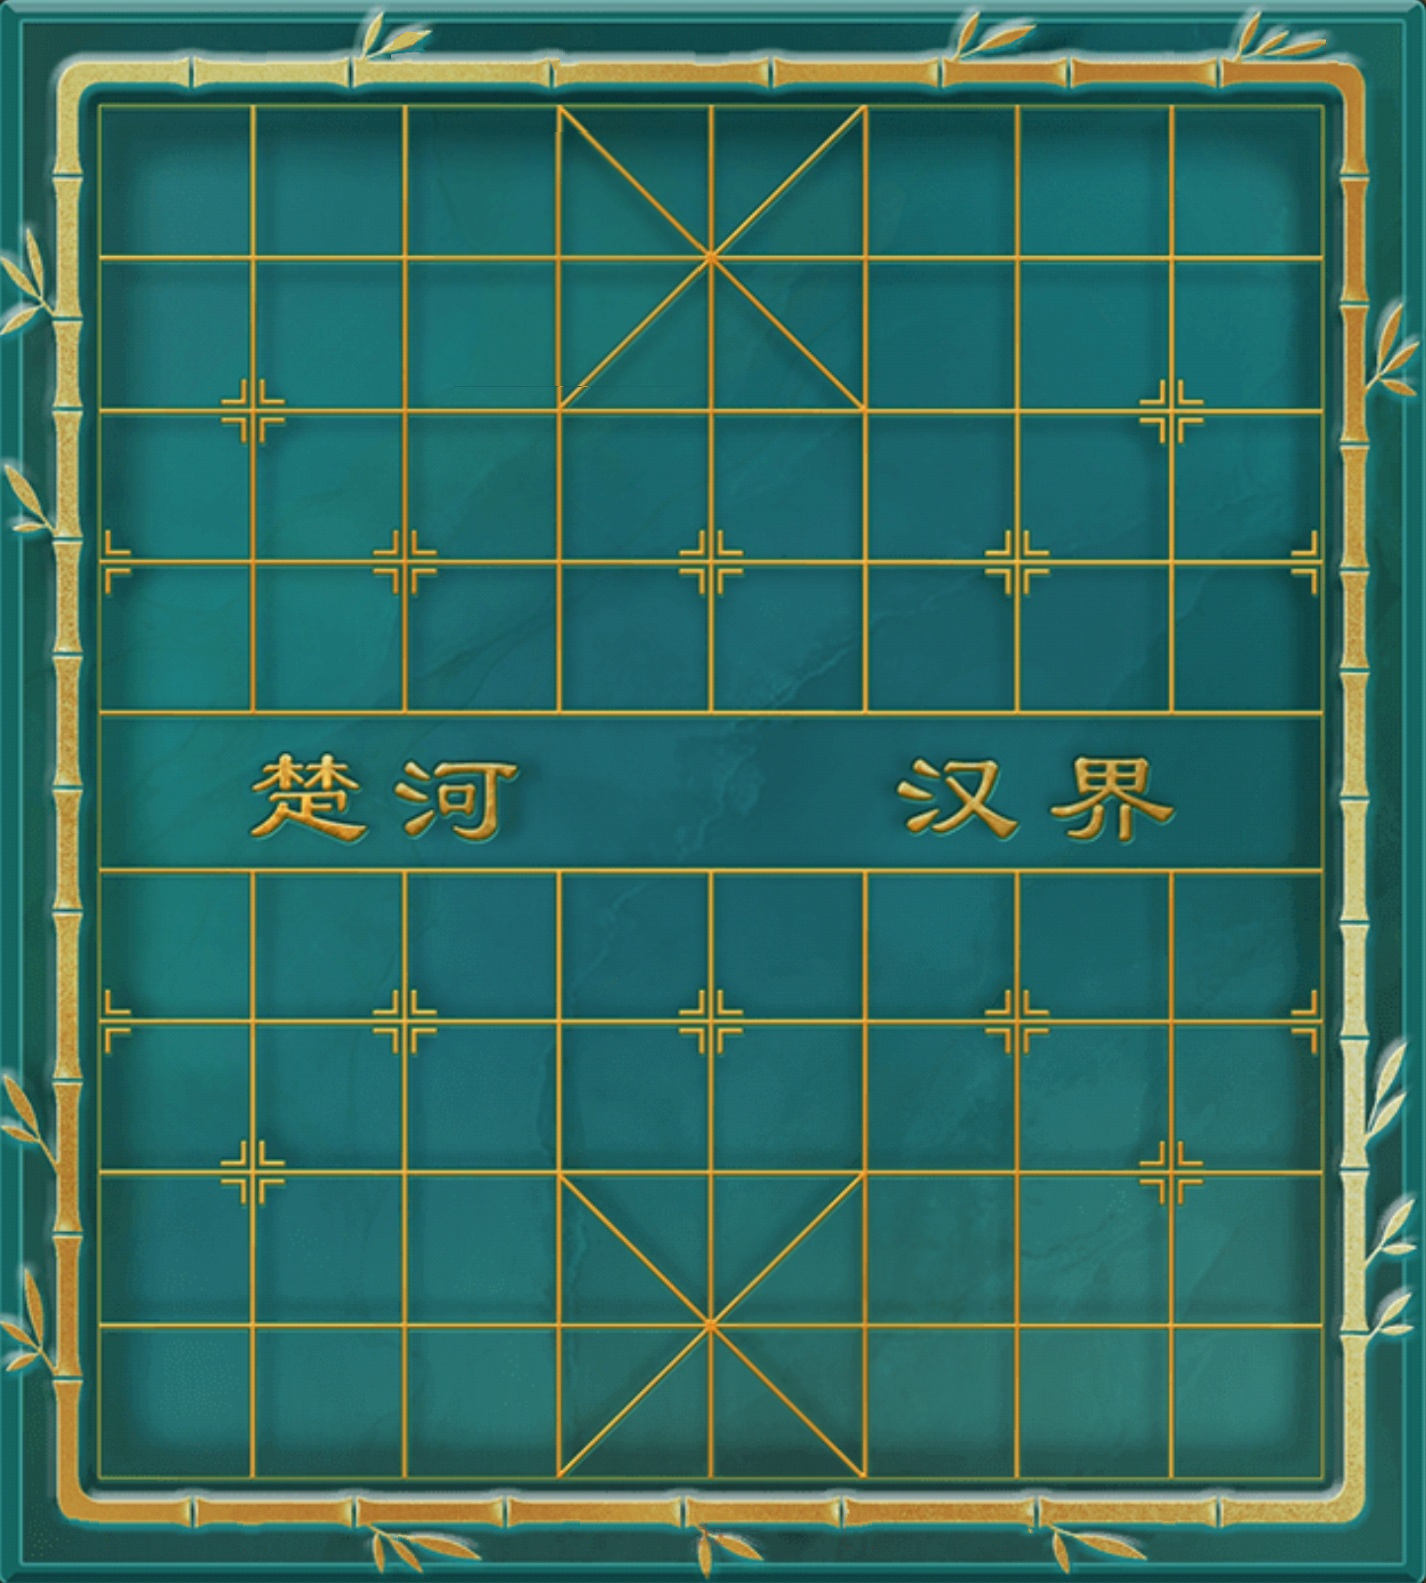
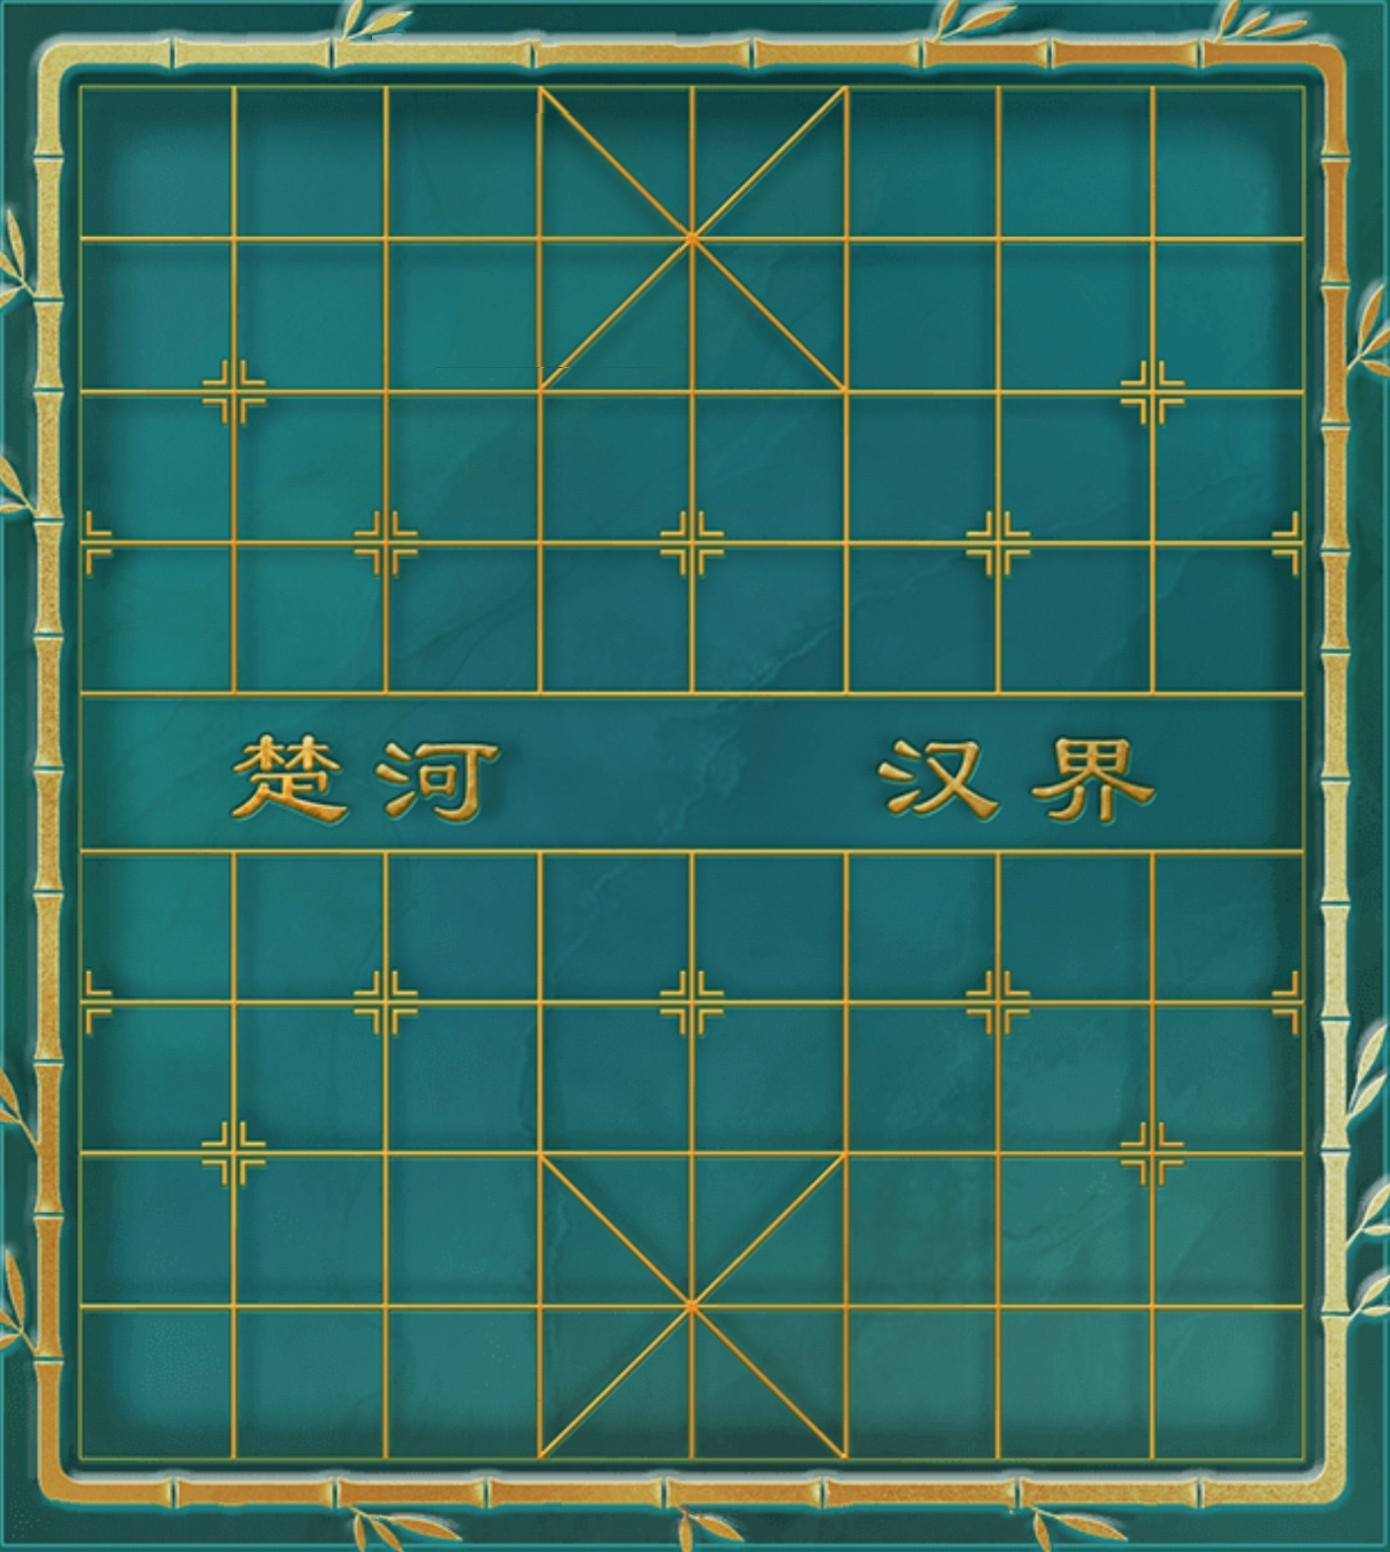
feat: 内嵌棋盘背景图 base64，加载时缺失自动写盘
解决生产/BRAT 安装缺图导致 wood/bamboo 主题背景空白的问题：
- wood.png 转 jpg（929KB → 129KB，质量 85）
- vite 增加 base64Asset 插件：构建期把 ?base64 导入编码进 main.js
- themes.ts 新增 ensureBoardAssets()：启动时检查并解码写盘（含递归创建目录）
- declarations.d.ts 增加 ?base64 模块声明

diff --git a/src/themes.ts b/src/themes.ts
@@ -1,10 +1,23 @@
 import type { App } from 'obsidian';
 
+import bambooB64 from '../assets/bamboo.jpg?base64';
+import woodB64 from '../assets/wood.jpg?base64';
+
 import type { ISettings } from './types';
 
+/** 棋盘背景图片：路径相对 vault configDir（.obsidian），base64 为内嵌兜底数据 */
+interface BgImage {
+  /** 相对 .obsidian 的路径，例如 plugins/xiangqi/assets/wood.jpg */
+  path: string;
+  /** 构建期内嵌的 base64（无 data: 前缀），缺失时用于写盘还原 */
+  base64: string;
+}
+
 interface ThemeDef {
-  /** 底层背景：CSS颜色值 或 图片路径（相对vault根目录） */
+  /** 底层背景：CSS颜色值 或 图片路径（相对 .obsidian configDir） */
   bg: string;
+  /** 图片型背景的兜底数据；非图片背景留空 */
+  bgImage?: BgImage;
   /** 纹理叠加，若无则为 "none" */
   texture: string;
   /** 网格线: 'dark' | 'light' | 'none'（图片背景可关闭网格） */
@@ -54,7 +67,8 @@ const themes: Record<string, ThemeDef> = {
     black: tree_black,
   },
   wood: {
-    bg: 'plugins/xiangqi/assets/wood.png',
+    bg: 'plugins/xiangqi/assets/wood.jpg',
+    bgImage: { path: 'plugins/xiangqi/assets/wood.jpg', base64: woodB64 },
     texture: 'none',
     grid: 'light',
     red: tree_red,
@@ -62,6 +76,7 @@ const themes: Record<string, ThemeDef> = {
   },
   bamboo: {
     bg: 'plugins/xiangqi/assets/bamboo.jpg',
+    bgImage: { path: 'plugins/xiangqi/assets/bamboo.jpg', base64: bambooB64 },
     texture: 'none',
     grid: 'none',
     red: tree_red,
@@ -74,6 +89,54 @@ export const THEME_KEYS = Object.keys(themes);
 
 function isImagePath(s: string): boolean {
   return /\.(png|jpe?g|gif|webp|svg|bmp)$/i.test(s);
+}
+
+/** base64 字符串 -> ArrayBuffer（writeBinary 需要） */
+function base64ToArrayBuffer(b64: string): ArrayBuffer {
+  const bin = atob(b64);
+  const bytes = new Uint8Array(bin.length);
+  for (let i = 0; i < bin.length; i++) bytes[i] = bin.charCodeAt(i);
+  return bytes.buffer;
+}
+
+/** 确保指定目录路径存在（含中间目录），configDir 之外的祖先目录假定已存在 */
+async function ensureDir(
+  adapter: { exists(p: string): Promise<boolean>; mkdir(p: string): Promise<void> },
+  dir: string,
+) {
+  const parts = dir.split('/').filter(Boolean);
+  let cur = '';
+  for (const part of parts) {
+    cur = cur ? `${cur}/${part}` : part;
+    if (!(await adapter.exists(cur))) {
+      await adapter.mkdir(cur);
+    }
+  }
+}
+
+/**
+ * 检查所有图片型主题背景是否已在本地存在；缺失则用内嵌 base64 解码写盘。
+ * 幂等：已存在的文件不重写。写盘失败仅记录日志，不影响其它主题。
+ */
+export async function ensureBoardAssets(app: App): Promise<void> {
+  const adapter = app.vault.adapter;
+  const configDir = app.vault.configDir;
+  for (const def of Object.values(themes)) {
+    const img = def.bgImage;
+    if (!img) continue;
+    const fullPath = `${configDir}/${img.path}`;
+    try {
+      if (await adapter.exists(fullPath)) continue;
+      // writeBinary 不会自动创建中间目录，需先确保 assets/ 目录存在
+      const slash = img.path.lastIndexOf('/');
+      if (slash > 0) {
+        await ensureDir(adapter, `${configDir}/${img.path.slice(0, slash)}`);
+      }
+      await adapter.writeBinary(fullPath, base64ToArrayBuffer(img.base64));
+    } catch (err) {
+      console.error(`[xiangqi] 写入背景图失败: ${img.path}`, err);
+    }
+  }
 }
 
 export function applyThemes(app: App, settings: ISettings) {

diff --git a/vite.config.ts b/vite.config.ts
@@ -1,6 +1,8 @@
 import { svelte } from '@sveltejs/vite-plugin-svelte';
+import fs from 'node:fs';
+import path from 'node:path';
 import { pathToFileURL } from 'node:url';
-import { defineConfig, type PluginOption } from 'vite';
+import { defineConfig, type Plugin, type PluginOption } from 'vite';
 
 const setOutDir = (mode: string) => {
   switch (mode) {
@@ -12,10 +14,42 @@ const setOutDir = (mode: string) => {
   }
 };
 
+/**
+ * base64-asset — 把以 `?base64` 结尾的导入（如 `../assets/wood.png?base64`）
+ * 在构建期读取为 base64 字符串并作为 JS 模块默认导出，从而把图片内嵌进 main.js，
+ * 而不作为独立文件输出。
+ */
+function base64Asset(): Plugin {
+  return {
+    name: 'base64-asset',
+    enforce: 'pre',
+    resolveId(source, importer) {
+      if (!source.endsWith('?base64')) return null;
+      // 去掉 query，得到真实文件路径并解析为绝对路径
+      const filePath = source.slice(0, -'?base64'.length);
+      const id =
+        importer && !filePath.startsWith('/')
+          ? path.resolve(path.dirname(importer), filePath)
+          : path.resolve(filePath);
+      return `\0${id}?base64`;
+    },
+    load(id) {
+      if (!id.endsWith('?base64')) return null;
+      const filePath = id.slice(1, -'?base64'.length); // 去掉开头的 \0 和结尾 query
+      if (!fs.existsSync(filePath)) {
+        this.error(`base64-asset: 文件不存在: ${filePath}`);
+      }
+      const b64 = fs.readFileSync(filePath).toString('base64');
+      return `export default ${JSON.stringify(b64)};`;
+    },
+  };
+}
+
 export default defineConfig(({ mode }) => {
   const isMin = mode === 'production-min';
   return {
     plugins: [
+      base64Asset(),
       svelte({
         compilerOptions: {
           compatibility: {

diff --git a/src/declarations.d.ts b/src/declarations.d.ts
@@ -2,3 +2,8 @@ declare module '*.css' {
   const content: string;
   export default content;
 }
+
+declare module '*?base64' {
+  const content: string;
+  export default content;
+}

diff --git a/src/main.ts b/src/main.ts
@@ -9,7 +9,7 @@ import { GenFENRenderChild } from './renderChild/GenFENRenderChild';
 import { ChessRenderChild } from './renderChild/ListRenderChild';
 import { TreeRenderChild } from './renderChild/TreeRenderChild';
 import { ChessSettingTab, DEFAULT_SETTINGS } from './settings';
-import { applyThemes } from './themes';
+import { applyThemes, ensureBoardAssets } from './themes';
 import type { ISettings } from './types';
 import { PGNView } from './view/PGNView';
 
@@ -22,6 +22,8 @@ export default class ChessPlugin extends Plugin {
 
     this.addSettingTab(new ChessSettingTab(this.app, this));
 
+    // 首次加载时把内嵌的背景图写盘（缺失才写），完成后再应用主题
+    await ensureBoardAssets(this.app);
     applyThemes(this.app, this.settings);
 
     addIcon(